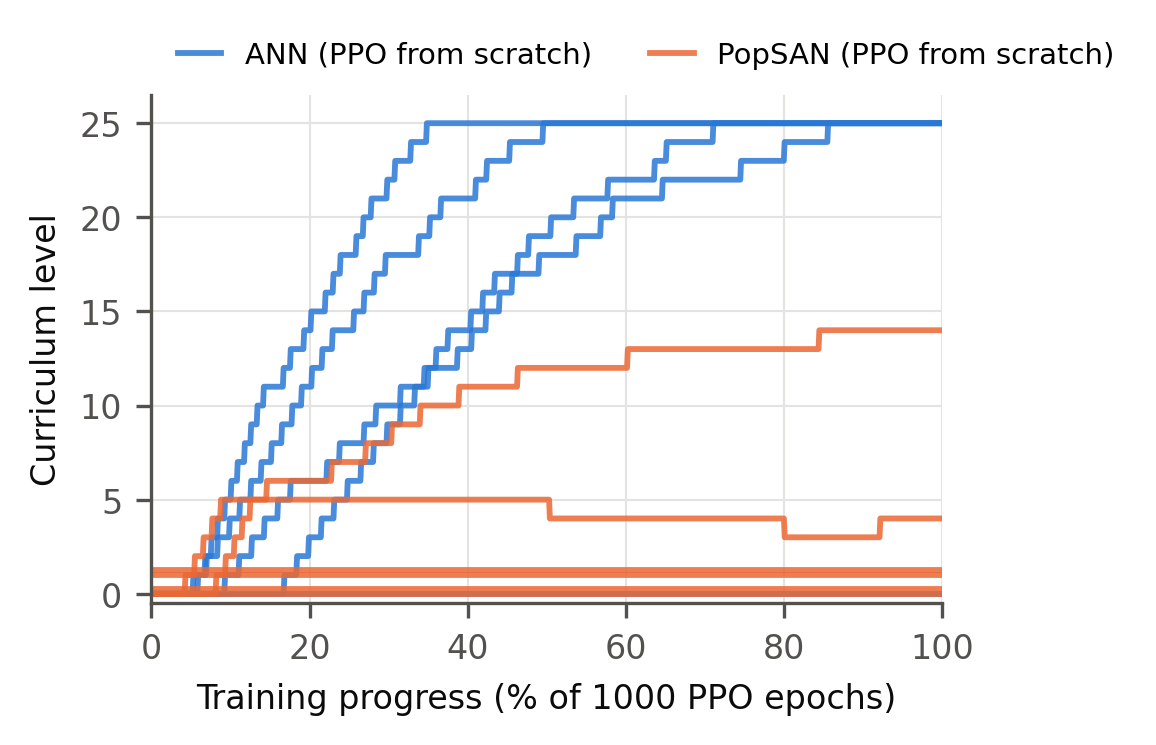
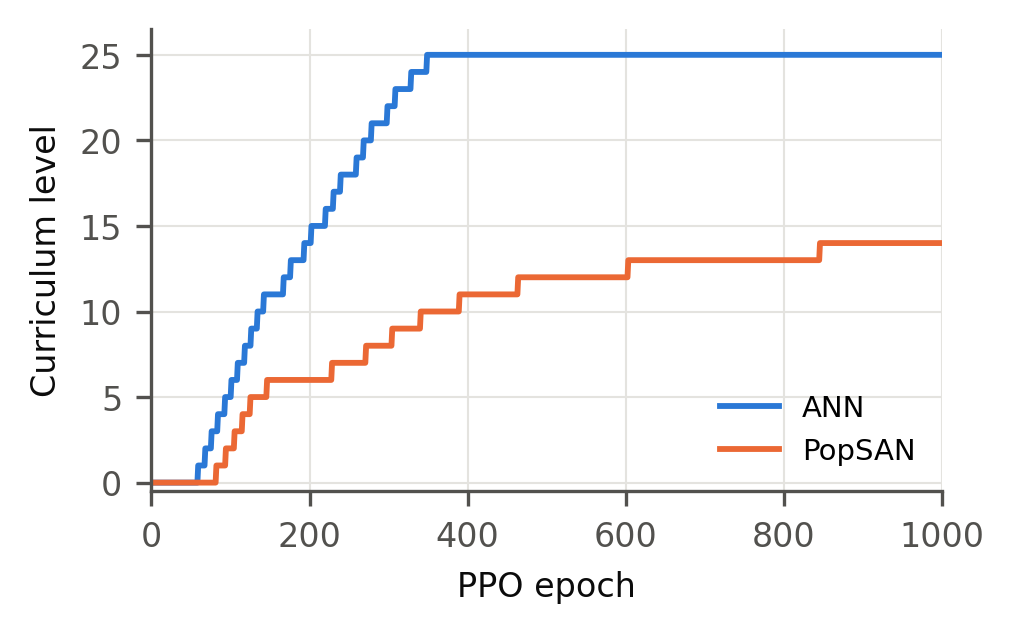
Teacher: drop the latency fine-tune; one ANN-vs-PopSAN training figure
- 4.3.2 no longer mentions the latency fine-tune; the teacher_training figure is
  removed. The teacher text keeps: from scratch, level 30 after 790 epochs.
- Figure scratch_curriculum now shows two curves against PPO epoch: the fastest
  ANN run (2gusa9bs, top level 25 after ~350 epochs) and the best PopSAN run
  (zefha2dc, stalls at 14). Their commits differ only in checkpoint upload and
  run naming, so env and reward match. The text keeps the other runs' outcome
  in one sentence.

diff --git a/phd-proposal/sections/04-preliminary-results.tex b/phd-proposal/sections/04-preliminary-results.tex
@@ -44,25 +44,18 @@ A first dataset of 43,000 images was rendered in a stand-alone environment that 
 
 \subsubsection{ANN Teacher}
 \label{subsec:teacher}
-The teacher is a multilayer perceptron actor--critic with separate actor and critic networks (hidden layers 256--256--64, ELU), trained with PPO on 1024 parallel environments. It was trained in two stages (\autoref{fig:teacher_training}). From scratch, with the reward of Section~\ref{subsec:reward}, it climbed the curriculum steadily and reached the top level, 30, after 790 PPO epochs ($1.0 \times 10^8$ environment steps). It was then fine-tuned at level 30 with the measured capture-to-control latency added to the simulation. At level 30 it succeeds in 85.3\% of the training episodes and crashes in 14.2\%. This teacher is the reference the SNN student must match.
-
-\begin{figure}[htbp]
-    \centering
-    \includegraphics[width=0.6\linewidth]{teacher_training.png}
-    \caption{\textbf{Training of the ANN teacher.} Top: curriculum level; level 30 is reached after $\sim 10^8$ environment steps. Bottom: success and crash rate of the training episodes. The dashed line marks the start of the fine-tune with the measured capture-to-control latency, with the curriculum fixed at level 30.}
-    \label{fig:teacher_training}
-\end{figure}
+The teacher is a multilayer perceptron actor--critic with separate actor and critic networks (hidden layers 256--256--64, ELU), trained with PPO on 1024 parallel environments. Trained from scratch with the reward of Section~\ref{subsec:reward}, it climbs the curriculum steadily and reaches the top level, 30, after 790 PPO epochs ($1.0 \times 10^8$ environment steps). This teacher is the reference the SNN student must match.
 
 \subsubsection{PopSAN Trained from Scratch}
 \label{subsec:scratch}
 The student is a population-coded spiking actor network (PopSAN)~\cite{tangDeepReinforcementLearning2020} (Section~\ref{sec:related_work}, \autoref{fig:popsan_encoding}). Each of the 49 observation dimensions is encoded by a population of 10 neurons (490 in total), feeding two hidden layers of 256 current-based LIF neurons (synaptic decay $\alpha = 0.5$, membrane decay $\beta = 0.75$, threshold 0.5), simulated for $T = 5$ time steps per control step. Each of the 4 action dimensions is decoded from the firing rates of its own population of 10 output neurons. The critic is an ANN, used only during training.
 
-Trained with PPO from scratch, PopSAN does not progress through the curriculum. \autoref{fig:scratch_curriculum} compares six PopSAN runs with five ANN runs, trained on an earlier version of the task with the same environment and reward for both networks. Four of the five ANN runs reach the top level of that curriculum (25); the best PopSAN run stalls at level 14, and four of the six never leave level 0. Since the ANN learns the task and the SNN does not, the difficulty lies in training the spiking network, not in the task. This motivates training the ANN first and distilling it into the SNN.
+Trained with PPO from scratch, PopSAN does not progress through the curriculum. \autoref{fig:scratch_curriculum} compares the fastest of five ANN runs with the best of six PopSAN runs, trained on an earlier version of the task (25 curriculum levels) with the same environment and reward for both networks. The ANN reaches the top level after 350 epochs; the PopSAN stalls at level 14 after 1000 epochs. Of the other runs, three more ANN runs reached the top level, while four of the six PopSAN runs never left level 0. Since the ANN learns the task and the SNN does not, the difficulty lies in training the spiking network, not in the task. This motivates training the ANN first and distilling it into the SNN.
 
 \begin{figure}[htbp]
     \centering
     \includegraphics[width=0.6\linewidth]{scratch_curriculum.png}
-    \caption{\textbf{PPO from scratch: ANN vs.\ PopSAN.} Curriculum level reached during training by five ANN (blue) and six PopSAN (orange) runs, with the same environment and reward (an earlier version of the task with 25 levels). Four of the five ANN runs reach the top level; the best PopSAN run stalls at level 14 and four never leave level 0.}
+    \caption{\textbf{PPO from scratch: ANN vs.\ PopSAN.} Curriculum level during training of the fastest ANN run (blue) and the best PopSAN run (orange), with the same environment and reward (an earlier version of the task with 25 levels). The ANN reaches the top level after 350 epochs; the PopSAN stalls at level 14.}
     \label{fig:scratch_curriculum}
 \end{figure}
 

diff --git a/phd-proposal/figures/src/plot_training_curves.py b/phd-proposal/figures/src/plot_training_curves.py
@@ -40,51 +40,27 @@ def save(fig, name):
     plt.close(fig)
 
 
-# 1. Curriculum progress from scratch: ANN vs PopSAN, same (old) env and reward per pair.
+# 1. Curriculum progress from scratch: the fastest ANN run vs the best PopSAN run, same (old) env
+#    and reward (commits 0c4a807 / a7e4157 differ only in checkpoint upload and run naming).
 def old_run(proj, rid):
     d = load(f"{proj}__{rid}")
     s = d[["_step", "curriculum_level/iter"]].dropna()
-    # tensorboard-synced runs: _step is the shared log counter; all runs are 1000 PPO epochs
-    return 100 * s["_step"] / d["_step"].max(), s["curriculum_level/iter"]
+    # tensorboard-synced runs: _step is the shared log counter; both runs are 1000 PPO epochs
+    return 1000 * s["_step"] / d["_step"].max(), s["curriculum_level/iter"]
 
-ann = ["2mjqfv6u", "2gusa9bs", "5mztw271", "bqptu3yz", "guyrtybs"]
-snn = [("nav_popsan", "270lli8h"), ("nav_popsan", "fzrjwq2x"), ("nav_popsan_new_reward", "zefha2dc"),
-       ("nav_popsan_new_reward", "h50ol459"), ("nav_popsan_new_reward", "bkdg555f"),
-       ("nav_popsan_new_reward", "5dswmowe")]
-fig, ax = plt.subplots(figsize=(3.4, 2.2))
-for i, rid in enumerate(ann):
-    x, y = old_run("nav_vae_ann", rid)
-    ax.plot(x, y, color=BLUE, lw=1.4, alpha=0.85, label="ANN (PPO from scratch)" if i == 0 else None)
-for i, (p, rid) in enumerate(snn):
-    x, y = old_run(p, rid)
-    ax.plot(x, y + 0.25 * i * (y.max() == 0), color=ORANGE, lw=1.4, alpha=0.85,
-            label="PopSAN (PPO from scratch)" if i == 0 else None)
-ax.set_xlabel("Training progress (% of 1000 PPO epochs)")
+fig, ax = plt.subplots(figsize=(3.4, 2.0))
+for (proj, rid), c, lab in [(("nav_vae_ann", "2gusa9bs"), BLUE, "ANN"),
+                            (("nav_popsan_new_reward", "zefha2dc"), ORANGE, "PopSAN")]:
+    x, y = old_run(proj, rid)
+    ax.plot(x, y, color=c, label=lab)
+ax.set_xlabel("PPO epoch")
 ax.set_ylabel("Curriculum level")
-ax.set_ylim(-0.5, 26.5); ax.set_xlim(0, 100)
-ax.legend(loc="lower left", bbox_to_anchor=(0, 1.0), ncol=2, handlelength=1.5)
+ax.set_ylim(-0.5, 26.5); ax.set_xlim(0, 1000)
+ax.legend(loc="lower right")
 save(fig, "scratch_curriculum")
 
-# 2. Teacher training: from scratch with p_fov, then latency fine-tune pinned at level 30.
-a, b = load("f450_navigation_task__xfm0jyko"), load("f450_navigation_task__9c53czrl")
-# the resumed run logs zero rates until its first curriculum check
-b_rates = b[b["success_rate"].fillna(0) > 0]
-t = pd.concat([a, b_rates], ignore_index=True)
-fig, (ax1, ax2) = plt.subplots(2, 1, figsize=(3.4, 3.0), sharex=True)
-x, y = series(t, "curriculum_level", "frame")
-ax1.plot(x / 1e8, y, color=BLUE)
-ax1.set_ylabel("Curriculum level"); ax1.set_ylim(-1, 31)
-for key, c, lab in [("success_rate", BLUE, "success"), ("crash_rate", ORANGE, "crash")]:
-    x, y = series(t, key, "frame")
-    ax2.plot(x / 1e8, smooth(y, 15), color=c, label=lab)
-ax2.set_ylabel("Rate (training episodes)"); ax2.set_ylim(0, 1)
-ax2.set_xlabel(r"Environment steps ($\times 10^8$)")
-ax2.legend(loc="center right")
-x_ft = b["frame"].dropna().min() / 1e8
-for ax in (ax1, ax2):
-    ax.axvline(x_ft, color=MUTED, lw=0.8, ls="--")
-ax1.text(x_ft + 0.05, 3, "latency fine-tune,\nlevel 30 pinned", color=MUTED, fontsize=7, va="bottom")
-save(fig, "teacher_training")
+# reference for the distillation figure: the distillation teacher's level-30 training success
+b = load("f450_navigation_task__9c53czrl")
 
 # 3. Distillation: adaptive vs constant LR after the teacher term is released.
 runs = [("wavp4w4j", ORANGE, "adaptive LR"), ("bcqeahgz", BLUE, r"constant LR $10^{-4}$")]
